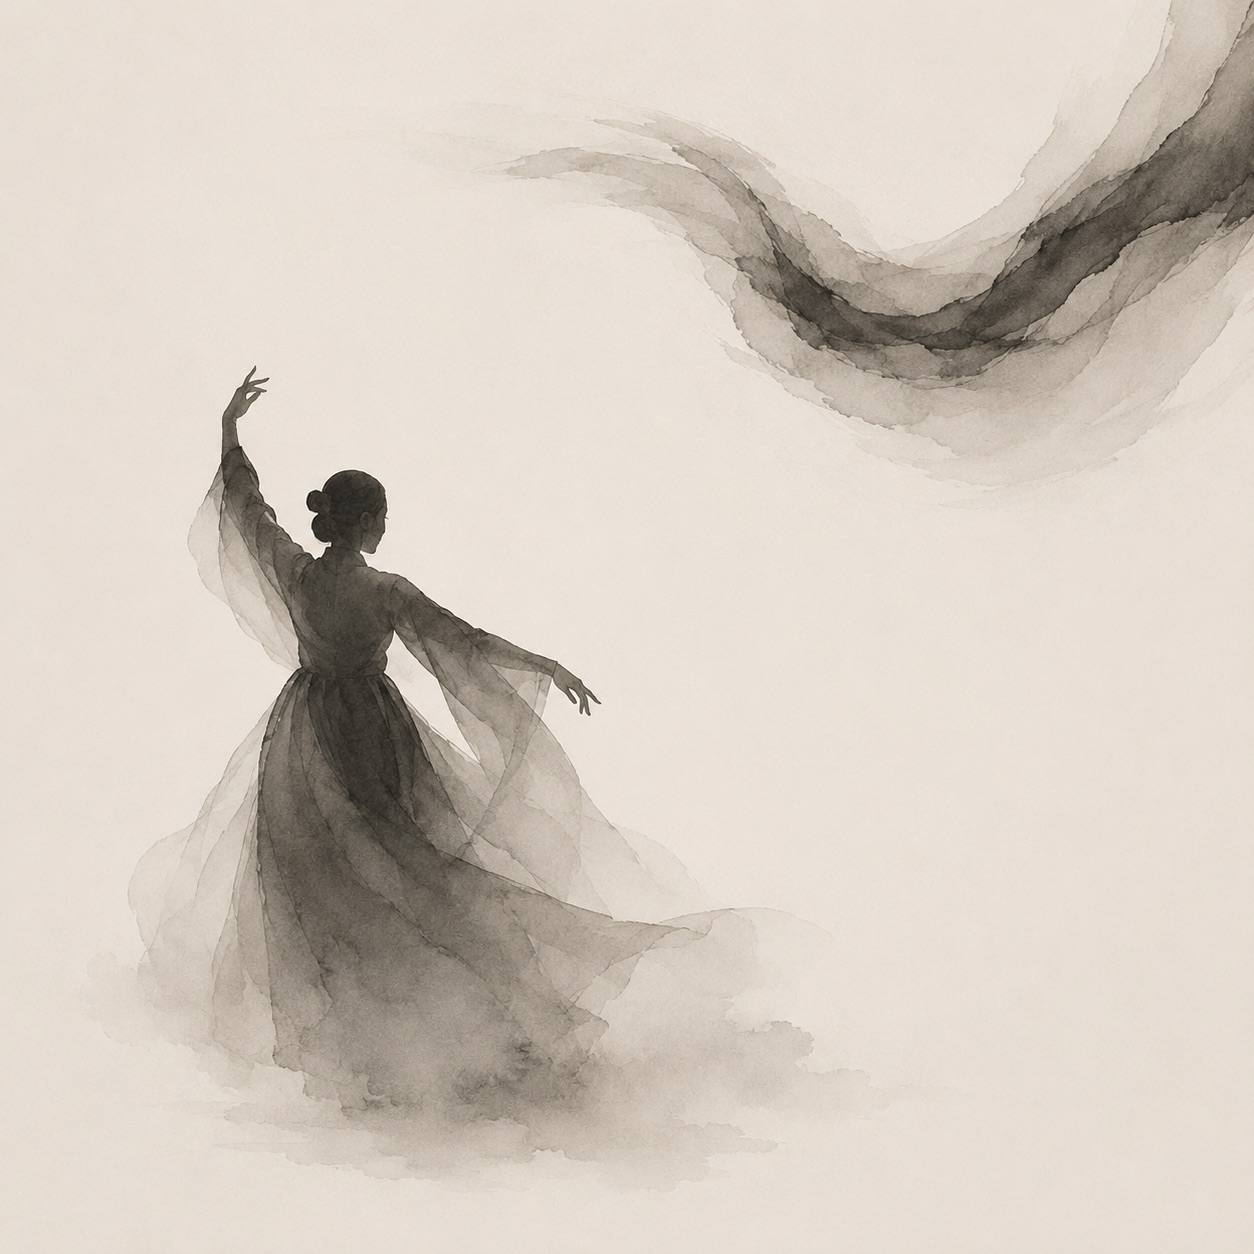
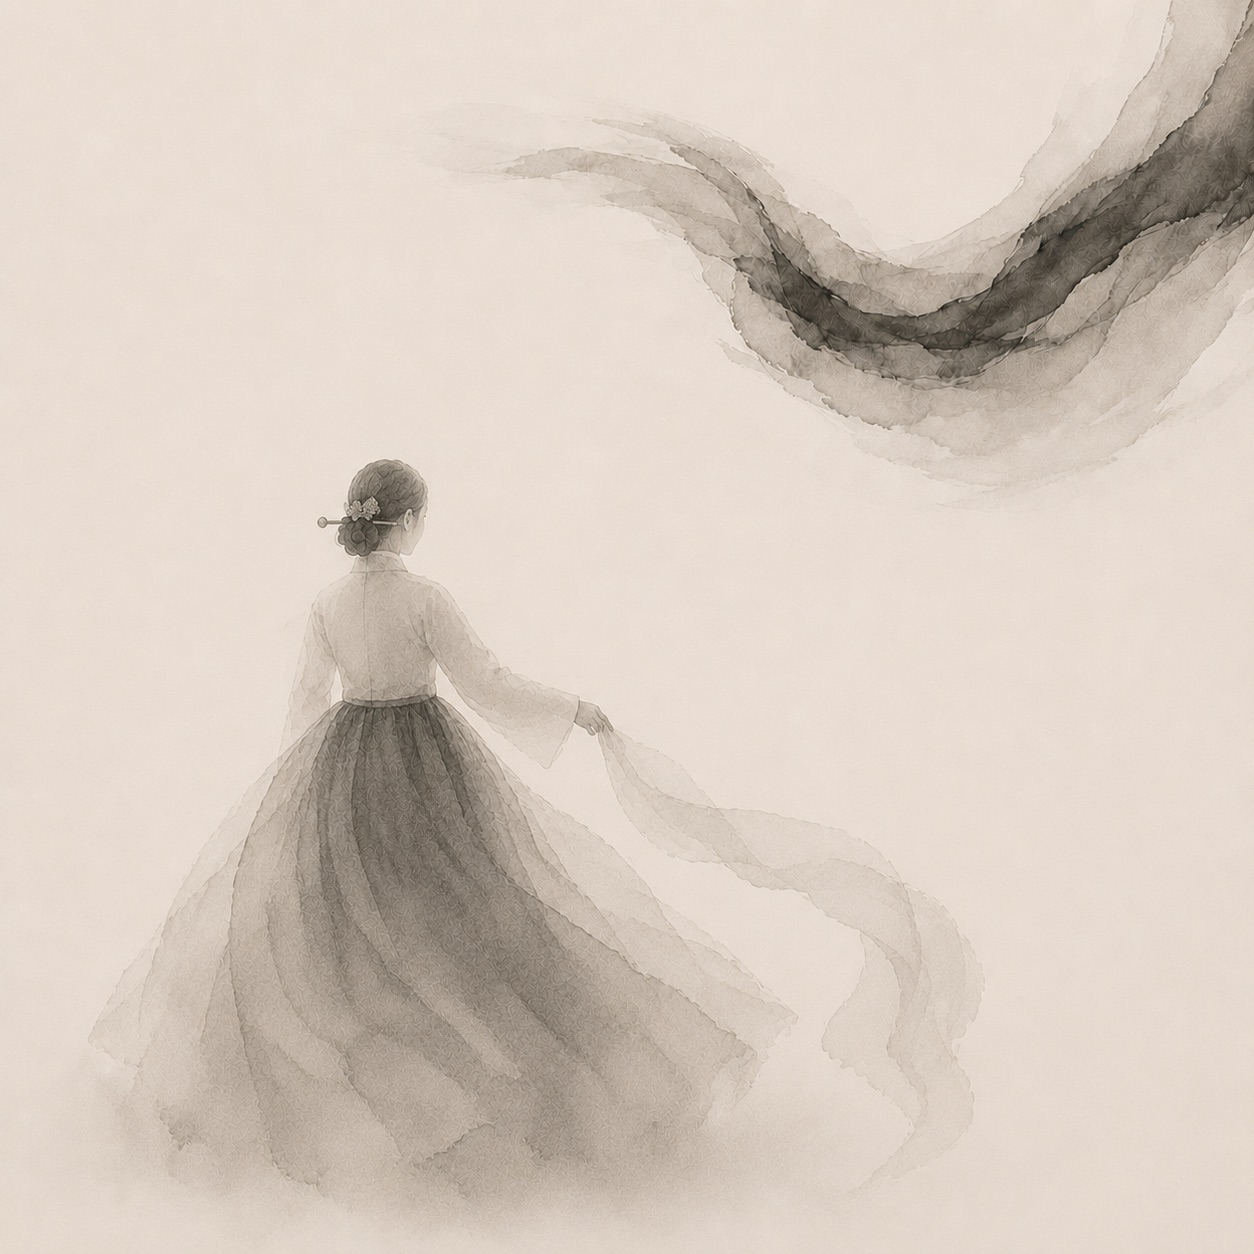
feat: 히어로·미감의 원천 이미지를 한복 무용수 뒷모습 수묵화로 교체
- 두 섹션이 assets/hero-ink-dancer.jpg 하나를 공유 (preload 재사용)
- index.html에서만 쓰이던 ink-dancer.jpg 삭제

diff --git a/index.html b/index.html
@@ -216,10 +216,10 @@
           <article class="feature">
             <figure class="feature__media art-photo" data-parallax="0.06">
               <img
-                src="assets/ink-dancer.jpg"
+                src="assets/hero-ink-dancer.jpg"
                 alt="수묵으로 그린 한국무용수 실루엣, 한삼 자락이 바람에 흐른다"
-                width="1400"
-                height="1400"
+                width="1254"
+                height="1254"
                 loading="lazy"
               />
             </figure>